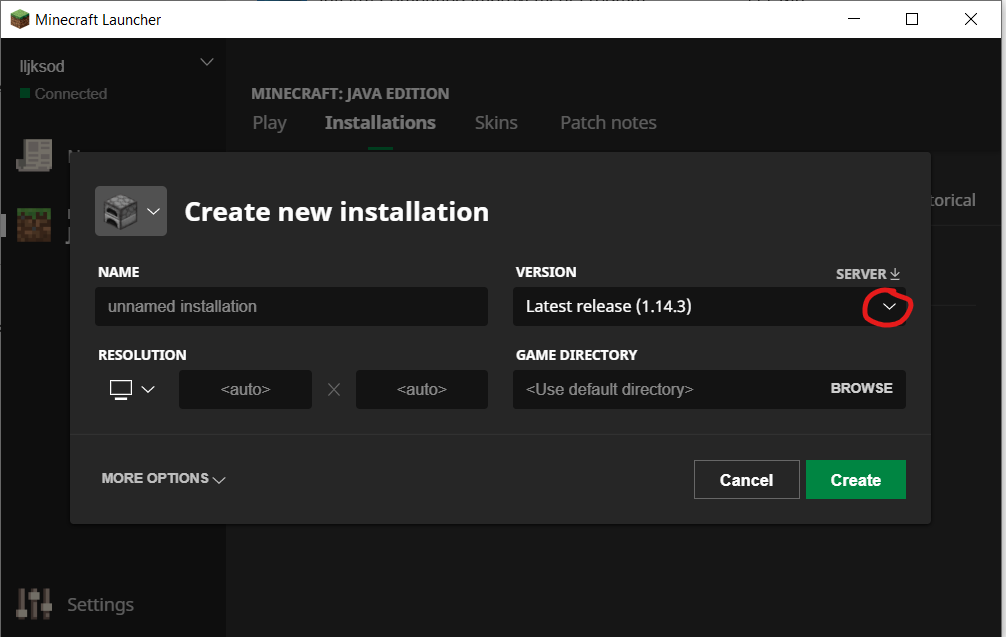
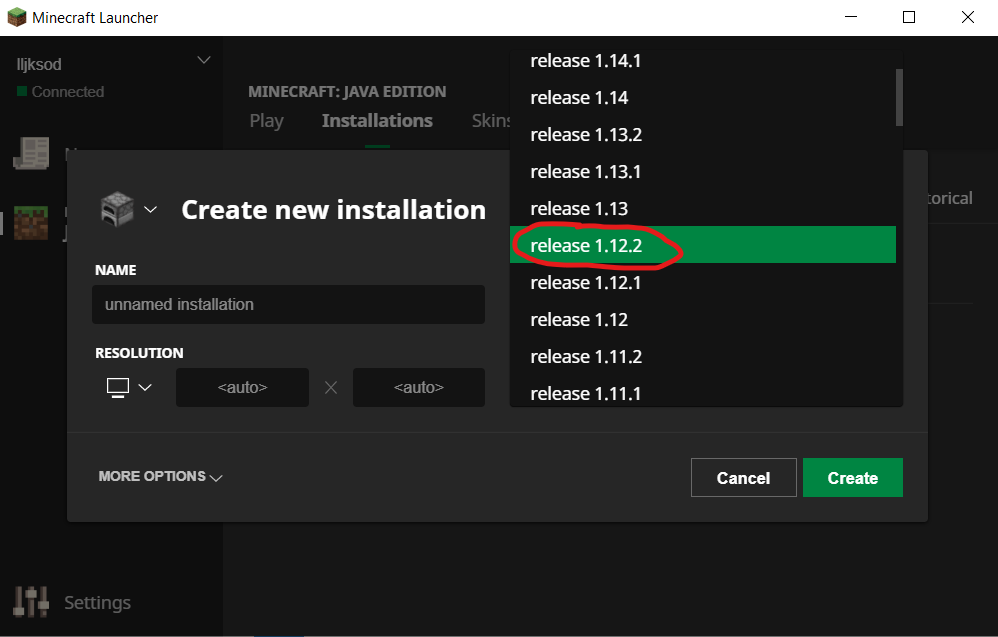
Updated readme

diff --git a/README.md b/README.md
@@ -10,29 +10,35 @@
 
 # Setup Minecraft
 1. Install Minecraft on target machine
-2. Run the Minecraft Launcher
-3. Add version 12.1.2 as a selection in the launcher and run that version once.
+2. Start the Minecraft Launcher and click installations
 ![Step 1.1](public/media/readme_images/step1-1.png)
-![Step 1.2](public/media/readme_images/step1-2.png)
-![Step 1.3](public/media/readme_images/step1-3.png)
+3. Click the version dropdown
+![Step 1.2](public/media/readme_images/step1-3.png)
+4. Select version 12.1.2
+![Step 1.3](public/media/readme_images/step1-2.png)
+5. Click on the new button to create a new installation
 ![Step 1.4](public/media/readme_images/step1-4.png)
+6. Click Create to save the new installation
 ![Step 1.5](public/media/readme_images/step1-5.png)
+7. Select the newly created installation
 ![Step 1.6](public/media/readme_images/step1-6.png)
+8. Click play to start a game with the new installation
 ![Step 1.7](public/media/readme_images/step1-7.png)
 
 # Setup Forge and Raspberry Jam Mod
 1. Install Java version 8
-2. Install Python 3
-2. Follow the instructions for installing Forge 12.1.2 and Raspberry Jam at: https://github.com/arpruss/raspberryjammod
-
 ![Step 2.1](public/media/readme_images/step2-1.png)
+2. Install Python 3
+3. Download Minecraft Forge version 1.12.2 at: https://files.minecraftforge.net/
 ![Step 2.2](public/media/readme_images/step2-2.png)
+4. Start the Windows Installer and install the forge client version
 ![Step 2.3](public/media/readme_images/step2-3.png)
+5. Start the minecraft launcher and select the newly created installation
 ![Step 2.4](public/media/readme_images/step2-4.png)
+6. Go to the Raspberry Jam Repository at https://github.com/arpruss/raspberryjammod and click clone or download
 ![Step 2.5](public/media/readme_images/step2-5.png)
+7. Click Download Zip
 ![Step 2.6](public/media/readme_images/step2-6.png)
-![Step 2.7](public/media/readme_images/step2-7.png)
-![Step 2.8](public/media/readme_images/step2-8.png)
 
 
 # Start Pycrafty
